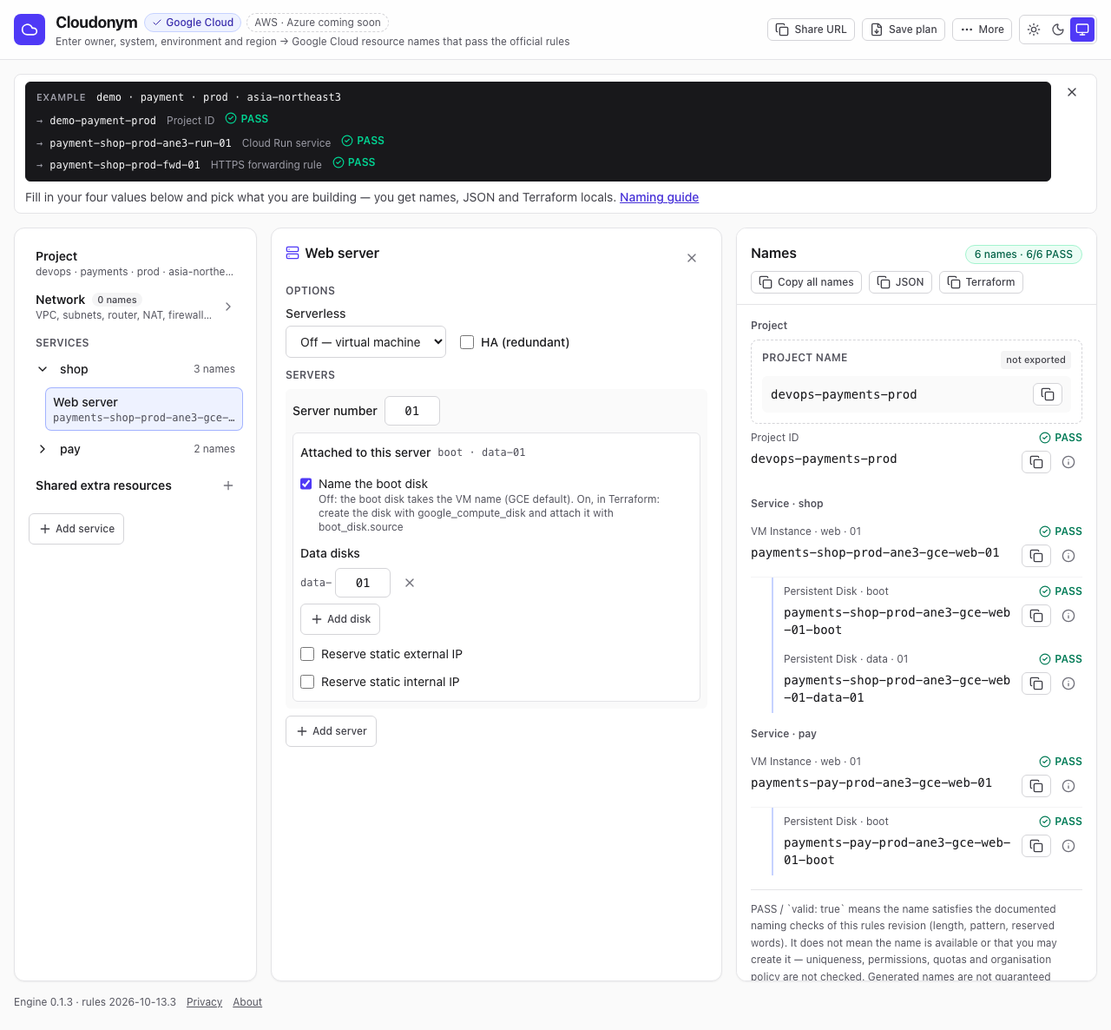
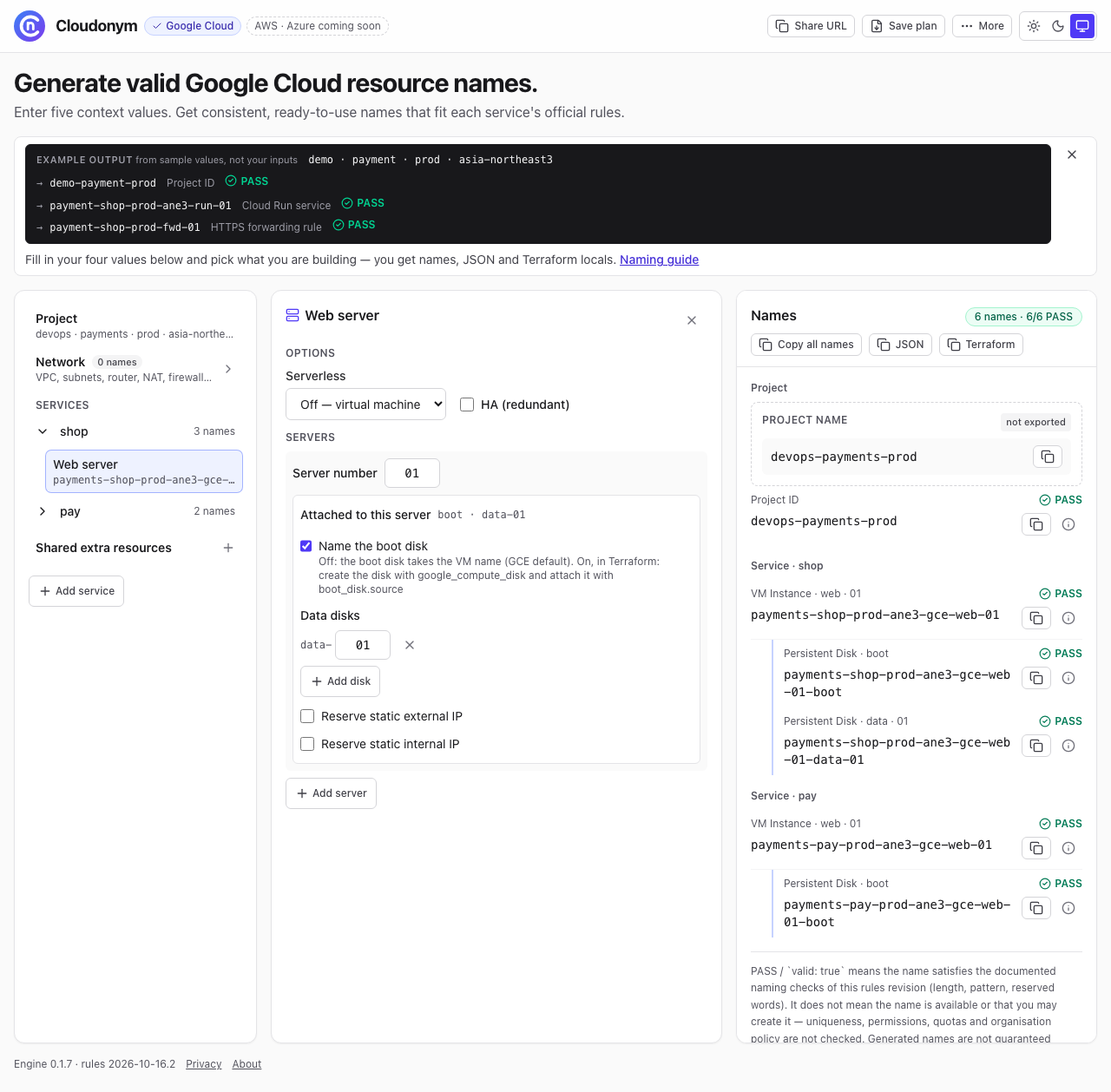
feat(ui): a headline above the work area instead of the header tagline (D113)
The wizard page now opens with "Generate valid Google Cloud resource
names." and one line on what goes in and what comes out, above the
intro box. It stays when the intro is dismissed and shows on phones,
where the old tagline was hidden. The small grey header tagline is
removed so the message is not said twice; the page meta description is
unchanged.

The intro example is labelled "Example output from sample values, not
your inputs", and its accessible name says it is not generated from
your inputs, without a count that could contradict the headline.

Message tests check the headline, the subline and the example label.
The screen scenario test passes, and the screenshots are refreshed.

Claude-Session: https://claude.ai/code/session_01A2g69JwcbSKH8ZQnUPh8oz

diff --git a/src/messages/catalog.ts b/src/messages/catalog.ts
@@ -15,7 +15,7 @@ export const UI_KEYS = [
   // RegionPicker (D49 · D50)
   'region_search_placeholder', 'region_no_match', 'region_options_label',
   // App — 네 단계 (D42)
-  'tagline', 'nav_label', 'nav_more', 'nav_more_label', 'share_button', 'share_button_label', 'share_warning', 'results_title',
+  'headline', 'headline_sub', 'nav_label', 'nav_more', 'nav_more_label', 'share_button', 'share_button_label', 'share_warning', 'results_title',
   'empty_state', 'pass_meaning', 'version_footer', 'rules_version_mismatch',
   'step_cloud', 'step_context', 'step_resources', 'step_names', 'selection_dropped', 'switch_cloud_confirm',
   'sticky_summary', 'sticky_jump',
@@ -91,7 +91,7 @@ export const UI_KEYS = [
   'nav_wizard', 'nav_pick', 'nav_wizard_label', 'nav_pick_label', 'wizard_intro', 'wizard_step_project', 'wizard_project_hint', 'wizard_project_id', 'wizard_project_name', 'wizard_project_id_suffix', 'wizard_project_id_suffix_hint', 'wizard_project_id_notice', 'wizard_common_parts', 'wizard_project_resources', 'wizard_project_resources_hint', 'wizard_shared_extras', 'wizard_shared_extras_hint', 'wizard_firewall_tiers', 'wizard_firewall_custom', 'wizard_firewall_custom_add', 'wizard_firewall_custom_hint', 'wizard_firewall_custom_exists', 'wizard_add_subnet', 'wizard_project_picks_full', 'wizard_add_same_subnet', 'wizard_firewall_iap_hint', 'wizard_firewall_lbhc_hint', 'wizard_nat_hint', 'wizard_lb_parts', 'wizard_step_services', 'wizard_services_hint', 'wizard_service_name', 'wizard_service_placeholder', 'wizard_add_service', 'wizard_remove_service', 'wizard_step_purposes', 'wizard_purposes_hint', 'wizard_custom', 'wizard_custom_title', 'wizard_custom_hint_service', 'wizard_custom_hint_project', 'wizard_custom_close', 'wizard_custom_done', 'wizard_custom_full', 'wizard_custom_duplicate', 'wizard_custom_badge', 'wizard_tier', 'wizard_tier_hint', 'wizard_location', 'wizard_location_default', 'wizard_location_global', 'wizard_location_regional', 'wizard_step_options', 'wizard_ha', 'wizard_ha_hint', 'wizard_serverless', 'wizard_serverless_off', 'wizard_serverless_gcf', 'wizard_serverless_run', 'wizard_serverless_hint', 'wizard_servers', 'wizard_rows_of', 'wizard_server_number', 'wizard_server_label', 'wizard_add_server', 'wizard_add_resource', 'wizard_remove_server', 'wizard_renumber', 'wizard_renumber_hint', 'wizard_seq_invalid', 'wizard_step_attached', 'wizard_boot', 'wizard_boot_hint', 'wizard_data_disks', 'wizard_add_disk', 'wizard_remove_disk', 'wizard_disk_number', 'wizard_no_disks', 'wizard_attached_none', 'wizard_ip', 'wizard_ipi', 'wizard_bastion_hint', 'wizard_remove_pick', 'wizard_duplicate_pick', 'wizard_step_names', 'wizard_list_label', 'wizard_settings_label', 'wizard_row_names', 'wizard_row_errors', 'wizard_unnamed_service', 'wizard_service_no_picks', 'wizard_clear_network', 'wizard_clear_network_hint', 'wizard_not_exported', 'wizard_names_empty', 'wizard_fix_errors', 'wizard_names_summary', 'wizard_names_tab', 'wizard_names_bar', 'wizard_names_bar_one', 'wizard_names_bar_short', 'wizard_names_bar_short_one', 'wizard_names_bar_none', 'wizard_names_bar_pass', 'wizard_sample_badge', 'wizard_sample_note', 'wizard_sample_clear', 'wizard_sample_clear_label', 'wizard_names_close', 'wizard_view_tabs', 'wizard_group_project', 'wizard_group_service', 'wizard_group_env', 'wizard_envs', 'wizard_envs_hint',  'wizard_attached_to', 'wizard_link_broken', 'wizard_link_discarded', 'wizard_link_dropped', 'wizard_link_ha_off', 'wizard_link_serverless_off', 'wizard_link_trimmed',
   'plan_save', 'plan_save_label', 'plan_open', 'plan_open_label', 'plan_file_unreadable', 'plan_file_discarded', 'plan_file_ignored_keys', 'plan_file_version_mismatch', 'plan_file_over_api_limit',
   // 마법사 카드 · 화면 모드 (D93 · D94)
-  'wizard_intro_close', 'wizard_about_label', 'intro_example', 'intro_example_label', 'intro_example_run', 'intro_example_fwd', 'nav_about', 'nav_about_label', 'wizard_nothing_created', 'wizard_project_id_notice_summary', 'wizard_project_id_notice_more', 'wizard_project_next', 'wizard_project_next_hint', 'wizard_project_pending', 'wizard_region_placeholder', 'wizard_names_need_project', 'wizard_cloud', 'wizard_cloud_soon', 'wizard_cloud_label', 'wizard_gallery_title', 'wizard_gallery_hint', 'wizard_card_names', 'wizard_card_add', 'wizard_card_add_label', 'wizard_card_open', 'wizard_card_open_label', 'wizard_card_tested', 'wizard_card_untested', 'wizard_card_family', 'wizard_card_overlap', 'wizard_card_duplicate', 'wizard_card_full', 'wizard_card_complete', 'wizard_card_incomplete', 'wizard_card_missing', 'wizard_card_missing_lb', 'wizard_card_missing_other', 'wizard_card_no_backend', 'wizard_card_turn_on_full', 'wizard_card_turn_on_duplicate', 'wizard_card_fill', 'wizard_card_remove', 'wizard_card_remove_hint', 'wizard_card_options', 'wizard_card_parts', 'wizard_card_network', 'wizard_card_network_hint', 'wizard_card_edit', 'wizard_card_edit_label', 'wizard_card_back', 'wizard_card_sources', 'wizard_card_setup', 'wizard_card_setup_run', 'wizard_card_setup_static', 'wizard_card_setup_doc', 'wizard_card_tag_lb', 'wizard_card_tag_redirect', 'wizard_card_tag_network', 'wizard_card_parts_count', 'wizard_card_state_complete', 'wizard_card_state_incomplete', 'wizard_add_more', 'wizard_add_more_hint', 'wizard_view_edit', 'theme_label', 'theme_light', 'theme_dark', 'theme_system',
+  'wizard_intro_close', 'wizard_about_label', 'intro_example', 'intro_example_note', 'intro_example_label', 'intro_example_run', 'intro_example_fwd', 'nav_about', 'nav_about_label', 'wizard_nothing_created', 'wizard_project_id_notice_summary', 'wizard_project_id_notice_more', 'wizard_project_next', 'wizard_project_next_hint', 'wizard_project_pending', 'wizard_region_placeholder', 'wizard_names_need_project', 'wizard_cloud', 'wizard_cloud_soon', 'wizard_cloud_label', 'wizard_gallery_title', 'wizard_gallery_hint', 'wizard_card_names', 'wizard_card_add', 'wizard_card_add_label', 'wizard_card_open', 'wizard_card_open_label', 'wizard_card_tested', 'wizard_card_untested', 'wizard_card_family', 'wizard_card_overlap', 'wizard_card_duplicate', 'wizard_card_full', 'wizard_card_complete', 'wizard_card_incomplete', 'wizard_card_missing', 'wizard_card_missing_lb', 'wizard_card_missing_other', 'wizard_card_no_backend', 'wizard_card_turn_on_full', 'wizard_card_turn_on_duplicate', 'wizard_card_fill', 'wizard_card_remove', 'wizard_card_remove_hint', 'wizard_card_options', 'wizard_card_parts', 'wizard_card_network', 'wizard_card_network_hint', 'wizard_card_edit', 'wizard_card_edit_label', 'wizard_card_back', 'wizard_card_sources', 'wizard_card_setup', 'wizard_card_setup_run', 'wizard_card_setup_static', 'wizard_card_setup_doc', 'wizard_card_tag_lb', 'wizard_card_tag_redirect', 'wizard_card_tag_network', 'wizard_card_parts_count', 'wizard_card_state_complete', 'wizard_card_state_incomplete', 'wizard_add_more', 'wizard_add_more_hint', 'wizard_view_edit', 'theme_label', 'theme_light', 'theme_dark', 'theme_system',
   // ResultCard — 버킷 이름 확인 (D83)
   'bucket_check', 'bucket_check_label', 'bucket_checking', 'bucket_check_note', 'bucket_available', 'bucket_taken', 'bucket_unknown',
   // index.html · 경로마다 제목 · 설명 (D106 — src/site/copy 가 짝짓는다)

diff --git a/src/messages/en.test.ts b/src/messages/en.test.ts
@@ -258,14 +258,17 @@ describe('영어 사전 (D24)', () => {
     expect(fillUi(en, 'length_range', { min: 3 })).toBe('Length 3–{max}');
   });
   it('첫 화면 문구 (D97 · D107) — 켜진 것은 Google Cloud 하나 · AWS · Azure 를 지원한다고 말하지 않는다 · 부제는 입력 → 출력 · 소개는 한 문장 · 「하지 않는 것」은 PASS 문단 곁 · 공유 경고는 소개에 없다', () => {
-    for (const t of [en.ui.tagline, en.ui.meta_description]) {
-      expect(t).toContain('Google Cloud');
-      expect(t).toMatch(/owner, system, environment and region/);
-      expect(t).not.toMatch(/AWS · GCP · Azure|each cloud/);
-    }
-    // 부제는 AWS · Azure 를 말하지 않는다(옆 뱃지가 「soon」을 말한다) · meta 는 「나중」으로만
-    expect(en.ui.tagline).not.toMatch(/AWS|Azure/);
-    expect(en.ui.tagline.indexOf('region')).toBeLessThan(en.ui.tagline.indexOf('resource names'));
+    expect(en.ui.meta_description).toContain('Google Cloud');
+    expect(en.ui.meta_description).toMatch(/owner, system, environment and region/);
+    // 머리글 (D113) — 무엇을 하나(Google Cloud 이름) · 무엇을 넣나(문맥값 다섯) · 무엇을 받나(공식 규칙에 맞는 이름). AWS · Azure 는 말하지 않는다(뱃지가 「soon」을 말한다)
+    expect(en.ui.headline).toBe('Generate valid Google Cloud resource names.');
+    expect(en.ui.headline_sub).toBe("Enter five context values. Get consistent, ready-to-use names that fit each service's official rules.");
+    for (const t of [en.ui.headline, en.ui.headline_sub, en.ui.meta_description]) expect(t).not.toMatch(/AWS · GCP · Azure|each cloud/);
+    expect(`${en.ui.headline} ${en.ui.headline_sub}`).not.toMatch(/AWS|Azure/);
+    // 예시 줄은 입력 칸의 값이 아니다 (D113) — 보이는 표지와 읽는 이름 둘 다 그렇게 말하고, 개수를 말하지 않는다(머리글의 「다섯」과 엇갈리지 않게)
+    expect(`${en.ui.intro_example} ${en.ui.intro_example_note}`).toMatch(/^Example output .*not your inputs$/);
+    expect(en.ui.intro_example_label).toMatch(/not generated from your inputs/);
+    expect(en.ui.intro_example_label).not.toMatch(/\b(three|four|five)\b/);
     expect(en.ui.meta_description).toMatch(/AWS and Azure coming\./);
     // 소개 한 문장 (D107) — 순서: 값 넷 → 무엇을 만드나 → 받는 것(이름 · JSON · Terraform locals)
     expect(en.ui.wizard_intro).toMatch(/four values/);

diff --git a/src/components/Wizard.tsx b/src/components/Wizard.tsx
@@ -486,6 +486,11 @@ export function Wizard({ brokenLink = false }: { brokenLink?: boolean }) {
       <main data-wizard className={`mx-auto max-w-[100rem] space-y-4 px-4 pt-4 ${layout === 'phone' ? 'pb-24' : layout === 'tablet' ? 'pb-20' : 'pb-4'}`}>
         {/* 짧은 소개 (D97 · D107) — 예시 한 줄(입력 넷 → 이름 셋, 엔진이 빌드 때 만든 값)이 먼저, 그 아래 순서 한 문장. 경고색이 아니다(공유 링크 경고는 Share 를 누를 때 따로 뜬다).
             「무엇을 안 하나」는 이름 칸 아래 PASS 문단 곁에 있다 — 이름을 본 사람에게 필요한 말이다 */}
+        {/* 머리글 (D113) — 무엇을 하는 도구인지 한 줄 · 무엇을 넣고 무엇을 받는지 한 줄. 소개 상자를 닫아도 남고 폰에서도 보인다(머리의 작은 부제를 대신한다) */}
+        <div data-wizard-headline className="space-y-1">
+          <h2 className="text-2xl font-bold tracking-tight text-balance text-zinc-900 sm:text-3xl dark:text-zinc-50">{en.ui.headline}</h2>
+          <p data-wizard-headline-sub className="text-sm text-pretty text-zinc-600 sm:text-base dark:text-zinc-400">{en.ui.headline_sub}</p>
+        </div>
         {introOpen && (
           <section data-wizard-intro aria-label={en.ui.wizard_about_label}
             className="flex items-start justify-between gap-2 rounded-lg border border-zinc-200 bg-white px-3 py-2 text-sm text-zinc-700 dark:border-zinc-800 dark:bg-zinc-900 dark:text-zinc-300">

diff --git a/src/messages/en.ts b/src/messages/en.ts
@@ -152,7 +152,8 @@ export const en: Catalog = {
     region_search_placeholder: 'Search region, city or code',
     region_no_match: 'No region matches — type a region name, a city or a code',
     region_options_label: 'Regions',
-    tagline: 'Enter owner, system, environment and region → Google Cloud resource names that pass the official rules',
+    headline: 'Generate valid Google Cloud resource names.',
+    headline_sub: 'Enter five context values. Get consistent, ready-to-use names that fit each service\'s official rules.',
     nav_label: 'Share and docs',
     nav_more: 'More',
     nav_more_label: 'More: other screens, guides and files',
@@ -456,8 +457,9 @@ export const en: Catalog = {
     wizard_intro: 'Fill in your four values below and pick what you are building — you get names, JSON and Terraform locals.',
     wizard_intro_close: 'Dismiss this note',
     wizard_about_label: 'About Cloudonym',
-    intro_example: 'Example',
-    intro_example_label: 'Example: four input values and three of the names they give',
+    intro_example: 'Example output',
+    intro_example_note: 'from sample values, not your inputs',
+    intro_example_label: 'Example output from sample values, not generated from your inputs',
     intro_example_run: 'Cloud Run service',
     intro_example_fwd: 'HTTPS forwarding rule',
     nav_about: 'About',

diff --git a/src/components/IntroExample.tsx b/src/components/IntroExample.tsx
@@ -17,7 +17,8 @@ export function IntroExample({ phone, example = INTRO_EXAMPLE }: { phone: boolea
     <figure data-intro-example aria-label={en.ui.intro_example_label}
       className="overflow-x-auto rounded-md border border-zinc-900 bg-zinc-900 px-3 py-2 font-mono text-[11px] leading-relaxed sm:text-xs text-zinc-100 dark:border-zinc-700 dark:bg-black">
       <div className="flex flex-wrap items-baseline gap-x-3">
-        <span className="font-sans text-[11px] font-semibold uppercase tracking-wider text-zinc-400">{en.ui.intro_example}</span>
+        {/* 예시는 입력 칸의 값으로 만든 것이 아니다 (D113) — 표지 옆에 그 말을 붙인다 */}
+        <span className="font-sans text-[11px] text-zinc-400"><span data-intro-example-tag className="font-semibold uppercase tracking-wider">{en.ui.intro_example}</span>{' '}<span data-intro-example-note>{en.ui.intro_example_note}</span></span>
         {/* 값 하나는 줄을 바꾸지 않는다(asia-northeast3 가 하이픈에서 잘리지 않게) — 줄은 「 · 」 자리에서만 바뀐다 */}
         <code data-intro-example-input>{example.input.map((v, i) => <Fragment key={v}>{i > 0 ? ' · ' : ''}<span className="whitespace-nowrap">{v}</span></Fragment>)}</code>
       </div>

diff --git a/src/components/AppHeader.tsx b/src/components/AppHeader.tsx
@@ -85,7 +85,6 @@ export function AppHeader({ share, shareText, onShare, screen, otherHref, naming
               <h1 className="text-lg font-bold tracking-tight">Cloudonym</h1>
               {badge}
             </div>
-            {!phone && <p className="text-xs text-zinc-600 dark:text-zinc-400">{en.ui.tagline}</p>}
           </div>
         </div>
         <nav aria-label={en.ui.nav_label} className="ml-auto flex flex-wrap items-center gap-2">

diff --git a/docs/decisions.md b/docs/decisions.md
@@ -139,6 +139,7 @@ The next stage adds a **naming wizard**: project values once, then several servi
 | D110 | Allow Cloudflare Web Analytics (amends D7's "no third-party analytics script"; CSP and privacy page only) | **CSP:** `script-src` becomes `'self' https://static.cloudflareinsights.com` in `public/_headers` (which `src/api/site.ts` also applies to the Worker's page HTML) and in `scripts/release-check.sh`; `connect-src` is unchanged. Cloudflare injects `<script type="module" src="https://static.cloudflareinsights.com/beacon.min.js/v…" data-cf-beacon='{"version":…}'>` into the site's HTML responses (automatic setup on the proxied zone), and the page CSP blocked it with one console error per page. Cloudflare's FAQ (<https://developers.cloudflare.com/web-analytics/faq/>) gives `script-src … https://static.cloudflareinsights.com/beacon.min.js` and, for automatic injection, `connect-src … 'self'` (manual installs use `cloudflareinsights.com`). The host is allowed without a path: the injected URL is `beacon.min.js/v<version>`, and a CSP source path without a trailing slash must match exactly. Measured on 2026-10-15 against production by replacing only the CSP header in a Chromium page: with the FAQ's path form the script is still blocked; with the host form it loads and the beacon posts to `/cdn-cgi/rum` on the site's own hostname (204), so `'self'` covers the collection request. The served script (this version) removes the URL hash, query string and credentials from the page and referrer URLs before sending; this is an observation, not a documented guarantee, so `/privacy` does not state it. **Privacy page:** a new paragraph under *What the site stores in your browser* says the script runs on every page, sends page-view and performance data to Cloudflare at `/cdn-cgi/rum` on the site's own hostname (handled by Cloudflare, not by Cloudonym's code, counters or Axiom), lists what Cloudflare reports (page views and visits by path, referrer, country, browser, operating system, device type; load times and Core Web Vitals), and quotes Cloudflare's statements: no visitors' personal data, no client-side state such as cookies or `localStorage`, no query strings logged, full data kept 7 days then about 10% in aggregated form; it links Cloudflare's About, Information collected and FAQ pages. The bucket Check paragraph (D83) is unchanged. `src/api/privacy-sync.test.ts` ties the origin on the page to the `script-src` of both CSP strings. | Owner decision of 2026-10-15. The beacon is added by Cloudflare at the edge, not by Cloudonym's code; blocking it only produced a console error on every page. Unlike the analytics script D7 rejected, it needs no sign-up from visitors, sets no cookies and sends to the site's own hostname, and the page now says so. |
 | D111 | Share preview image (amends D106's head tags) | **Image:** `public/og-image.png`, 1200×630 PNG, drawn by `scripts/og-image.py` (Playwright) from `src/components/introExamples.json` — the intro example the engine builds (D107/D108), so the picture shows the same four inputs and three PASS names and no hand-written name. `scripts/og-image.json` records the inputs and names the picture was drawn from; `src/api/og-image.test.ts` fails when they differ from the current intro example, or when the PNG header is not 1200×630. **Head:** every known page adds `og:image` (absolute URL from the request origin, like `og:url`), `og:image:type`, `og:image:width`, `og:image:height` and `og:image:alt`; `twitter:card` becomes `summary_large_image` with `twitter:image` and `twitter:image:alt`. Unknown paths keep only `noindex`. No domain in the image or the code. | Links shared in chats and social posts showed text only; a picture of the input and its names says what the tool does at a glance. Drawing from the engine's example keeps the picture from showing a name the engine would not give. |
 | D112 | Advice is a warning, not a failure (amends D20 for advice; first use: Secrets Manager) | **Where:** a rule may carry `advice` — a pattern for a form the provider's document advises against without forbidding it. A matching name keeps its verdict and gets a message in a new `warnings` list (`checkAdvice` in `src/core/validate.ts`); `warnings` is on `/v1/validate` and on every name item, present only when there is one, and it never changes `valid`. `warnings` is about the name that was sent; when `/v1/validate` suggests a name, the suggestion's own warnings are in `suggested_warnings`, so a client that takes the suggestion does not lose them. Result cards show warnings in a separate list under the verdict. **First use:** `aws.secretsmanager_secret` — "Do not end your secret name with a hyphen followed by six characters. If you do so, you risk confusion and unexpected results when searching for a secret by partial ARN" is advice, so the ending moves from the pattern to `advice` (`warning.arn_suffix_lookalike`), and the rule note becomes `note.advisory_rule_warned`. This reverses the Secrets Manager part of the 2026-10-06 entry below. Not probed against the API. Rules revision `2026-10-16.1`. | D20 is about limits the documents leave unclear; this sentence is clear that the name is allowed and says what risk it carries. Rejecting it made common names fail — anything ending in a region such as `-eu-west-1` or `-us-east-1` — and sent users to a different name for a reason the provider does not enforce. A warning keeps the advice visible without reporting a valid name as invalid. |
+| D113 | A headline above the work area replaces the header tagline (amends D107's intro label; screen only) | **Headline:** "Generate valid Google Cloud resource names." (`h2`, 24 px on phones, 30 px from 640 px) with the line "Enter five context values. Get consistent, ready-to-use names that fit each service's official rules." at the top of the wizard page, above the intro box. It stays when the intro is dismissed and shows at every width, including phones, where the old tagline was hidden. **Removed:** the small grey header tagline (`tagline`), so the same message is not said twice; the page `meta description` is unchanged. **Example label:** the intro example now reads **Example output** *from sample values, not your inputs*, and its accessible name says it is not generated from your inputs, without a count. Text in `src/messages/en.ts` (`headline`, `headline_sub`, `intro_example_note`). | The tagline was small and hidden on phones, and the example block could be read as names made from the visitor's own inputs. "Five" counts the four project values and the service name. |
 | D114 | Five more wizard cards from rules already in the table (extends D93) | **Cards:** `data-warehouse` (a landing bucket, a BigQuery dataset and a service account; option: a Cloud Scheduler job), `gke` (the cluster, an Artifact Registry repository and a service account, with the project's VPC network and subnet as project-level parts; option: Memorystore for Redis), `event-pipeline` (Pub/Sub topic, subscription and dead-letter topic, a Cloud Run service and a service account), `ci-cd` (an Artifact Registry repository, a Cloud Build trigger and a service account; option: a secret) and `batch-job` (a Cloud Run job, a Cloud Scheduler job and a service account). **Presets:** nine service-level presets for those parts — `bq`, `ar`, `topic`, `sub`, `dlq`, `build`, `cron`, `runjob`, `redis`; `dlq` is the Pub/Sub topic rule with the tier `dlq`, so it never collides with `topic` (the `urlredir` pattern of D91). The BigQuery dataset name uses `_` (`billing_shop_prod_ane3_bq`), and a GKE cluster name that would pass 40 characters is shortened or returned as a failure, never marked valid (tests feed 40-character inputs). **Not built:** a private-network card — every part (VPC network, subnet, Cloud Router, Cloud NAT, firewall rules, DNS zone) is project-level, so the screen could not tell which service it belongs to and the first screen already starts with the first four (D90); the GKE card's Cloud Router and Cloud NAT for the same reason (an option needs at least one service part to show whether it is on); cards that need node pools, Dataflow, Cloud Deploy or Eventarc, which have no rule yet. **Tested:** none of the five sets has been built on Google Cloud, so `tested` is false and the card says the rules are checked but the set is not yet applied. **Limit:** within one service a pick belongs to one card, so two cards that both need a service account go in different services. Rules revision `2026-10-16.2` (new presets only; no existing name changes). | The first five cards cover web serving only. Each part already had a rule checked against the official documents (2026-10-11), so a card only names a set; inventing rules for missing resource types would break D20. |
 
 ## Later decisions

diff --git a/README.md b/README.md
@@ -9,7 +9,7 @@ Multi-cloud resource naming engine — **Google Cloud** in this release, with AW
 <a id="naming-wizard"></a>
 ## Naming wizard (web UI, `/`)
 
-The home page names a whole Google Cloud project (D84, D89, D93). It is three columns — **Plan** (the list), **Edit** (the selected row) and **Names**; below 768 px they are three tabs. A first visit opens on an example plan — `demo · payment · prod · asia-northeast3` with the `serverless-web` card, 16 names, all PASS — marked **Example** in the Project panel; **Clear** empties it to the Project values (untouched empty fields show no errors, and **Next: what are you building** then opens the first service's cards), and nothing is written to the address bar until you change something (D97, D108). On tablets a bar at the bottom, *View N generated names (Terraform / JSON)*, opens the names drawer; on phones it switches to the Names tab and reads *View N names* (D108, D109). Above the columns a short intro shows one read-only example — the same four input values and three names they give (Project ID, Cloud Run service, HTTPS forwarding rule), produced by the engine at build time — and one sentence on the order (D107). **About** in the **More** menu opens the `/about` page — what the tool is, the same example, what PASS checks, the source repository, the license, the project status and the versions — which can also show the dismissed intro again; the other pages link to it from the footer (D109). A link opens exactly as it was shared. Names are regenerated as you type. The header shows two badges — **Google Cloud** (supported now, solid with a check) and **AWS · Azure coming soon** (dashed, muted) — and a **Light · Dark · System** screen mode switch (D94). Next to **Share URL** and **Save plan**, a **More** menu holds **Open plan**, **Pick resources**, **Naming guide**, **API**, **llms.txt** and **About** (D104, D107). Below 768 px the header keeps only the logo, the product name, the badges and **More**: Share URL, Save plan and the screen mode switch move into the menu, and Share URL from the menu reports the result under the header (D105).
+The home page names a whole Google Cloud project (D84, D89, D93). It is three columns — **Plan** (the list), **Edit** (the selected row) and **Names**; below 768 px they are three tabs. A first visit opens on an example plan — `demo · payment · prod · asia-northeast3` with the `serverless-web` card, 16 names, all PASS — marked **Example** in the Project panel; **Clear** empties it to the Project values (untouched empty fields show no errors, and **Next: what are you building** then opens the first service's cards), and nothing is written to the address bar until you change something (D97, D108). On tablets a bar at the bottom, *View N generated names (Terraform / JSON)*, opens the names drawer; on phones it switches to the Names tab and reads *View N names* (D108, D109). Above the columns a headline — *Generate valid Google Cloud resource names.* — and one line on what goes in and what comes out stay on every screen width (D113). Below them a short intro shows one read-only example, labelled as output from sample values and not from your inputs — the same four input values and three names they give (Project ID, Cloud Run service, HTTPS forwarding rule), produced by the engine at build time — and one sentence on the order (D107). **About** in the **More** menu opens the `/about` page — what the tool is, the same example, what PASS checks, the source repository, the license, the project status and the versions — which can also show the dismissed intro again; the other pages link to it from the footer (D109). A link opens exactly as it was shared. Names are regenerated as you type. The header shows two badges — **Google Cloud** (supported now, solid with a check) and **AWS · Azure coming soon** (dashed, muted) — and a **Light · Dark · System** screen mode switch (D94). Next to **Share URL** and **Save plan**, a **More** menu holds **Open plan**, **Pick resources**, **Naming guide**, **API**, **llms.txt** and **About** (D104, D107). Below 768 px the header keeps only the logo, the product name, the badges and **More**: Share URL, Save plan and the screen mode switch move into the menu, and Share URL from the menu reports the result under the header (D105).
 
 **Cards** (D93) — after the project values, the first service asks *What are you building?*. A card adds every resource a working setup needs, named and checked: **Website** (a web server VM behind an HTTPS load balancer, HTTP redirected to HTTPS, with the firewall rules the load balancer needs; a database on by default), **Serverless web** (Cloud Run behind a serverless NEG), **Static site** (a bucket behind a backend bucket), **Internal app on VMs** (web, app and database servers with a bastion) **HTTPS load balancer** (the front only, in front of a web server, Cloud Run service or bucket the service already has), **Data warehouse (BigQuery)** (a landing bucket, a BigQuery dataset — its name uses underscores — and a service account; a Cloud Scheduler job as an option), **GKE cluster** (the cluster, an Artifact Registry repository and a node service account on the VPC network and subnet; Memorystore for Redis as an option), **Event pipeline (Pub/Sub)** (topic, subscription, dead-letter topic, Cloud Run service and service account), **CI/CD (Cloud Build)** (Artifact Registry repository, Cloud Build trigger and service account; a secret as an option) and **Batch job** (a Cloud Run job, a Cloud Scheduler job and a service account) (D114). Website, Serverless web, Static site and Internal app on VMs were built and tested on Google Cloud (D91, D96); the HTTPS load balancer card alone has no backend to serve, and the five D114 cards have their rules checked but have not been built as a set yet. There is no private-network card: its parts are all project-level, and the network section already starts with the VPC network, subnet, Cloud Router and Cloud NAT. Within one service a resource belongs to one card, so two cards that share a part (such as the service account) go in different services. Serverless web and Static site also need settings that have no name — public access to the Cloud Run service, and a public, index-page bucket — and their checklists say so with a link to the Google Cloud page. Selecting a card in the list opens its checklist: each part with its name, the network parts it added, and a warning that lists missing parts if you untick one (a load balancer does not serve without them). Removing a card keeps the database option and the network firewall rules. Cards are not stored: the screen recognises them from the resources a service has, so share links and `POST /v1/wizard` are unchanged.
 

diff --git a/CHANGELOG.md b/CHANGELOG.md
@@ -11,6 +11,10 @@ Rules revision for this release: 2026-10-16.2. New wizard presets only; no name,
 - **Five more wizard cards** (D114) — **Data warehouse (BigQuery)** (a landing bucket, a BigQuery dataset whose name uses underscores, a service account; a Cloud Scheduler job as an option), **GKE cluster** (the cluster, an Artifact Registry repository and a node service account on the project's VPC network and subnet; Memorystore for Redis as an option), **Event pipeline (Pub/Sub)** (topic, subscription, dead-letter topic, Cloud Run service, service account), **CI/CD (Cloud Build)** (Artifact Registry repository, Cloud Build trigger, service account; a secret as an option) and **Batch job** (Cloud Run job, Cloud Scheduler job, service account). Their rules are checked against the official documents; none of the five sets has been built on Google Cloud yet, and the cards say so.
 - **Nine wizard presets** for those parts: `bq`, `ar`, `topic`, `sub`, `dlq` (a Pub/Sub topic with the tier `dlq`), `build`, `cron`, `runjob` and `redis`, also accepted by `POST /v1/wizard` and listed in `/llms.txt`.
 
+### Changed
+
+- **The wizard opens with a headline** (D113) — "Generate valid Google Cloud resource names." with a one-line explanation above the work area, on every screen width. The small header line it replaces is gone, and the intro example is labelled as sample output that does not come from your inputs.
+
 ## [0.1.7] - 2026-10-16
 
 `/llms.txt` now opens with guidance for AI coding agents: call the API instead of composing names, how the engine shortens, and which rules a naming convention breaks. The Secrets Manager "hyphen and six characters" ending is a warning instead of a failure, shown in a new `warnings` list on the API and on the result cards. The site has its own mark on the favicon, the header and the share preview image.
